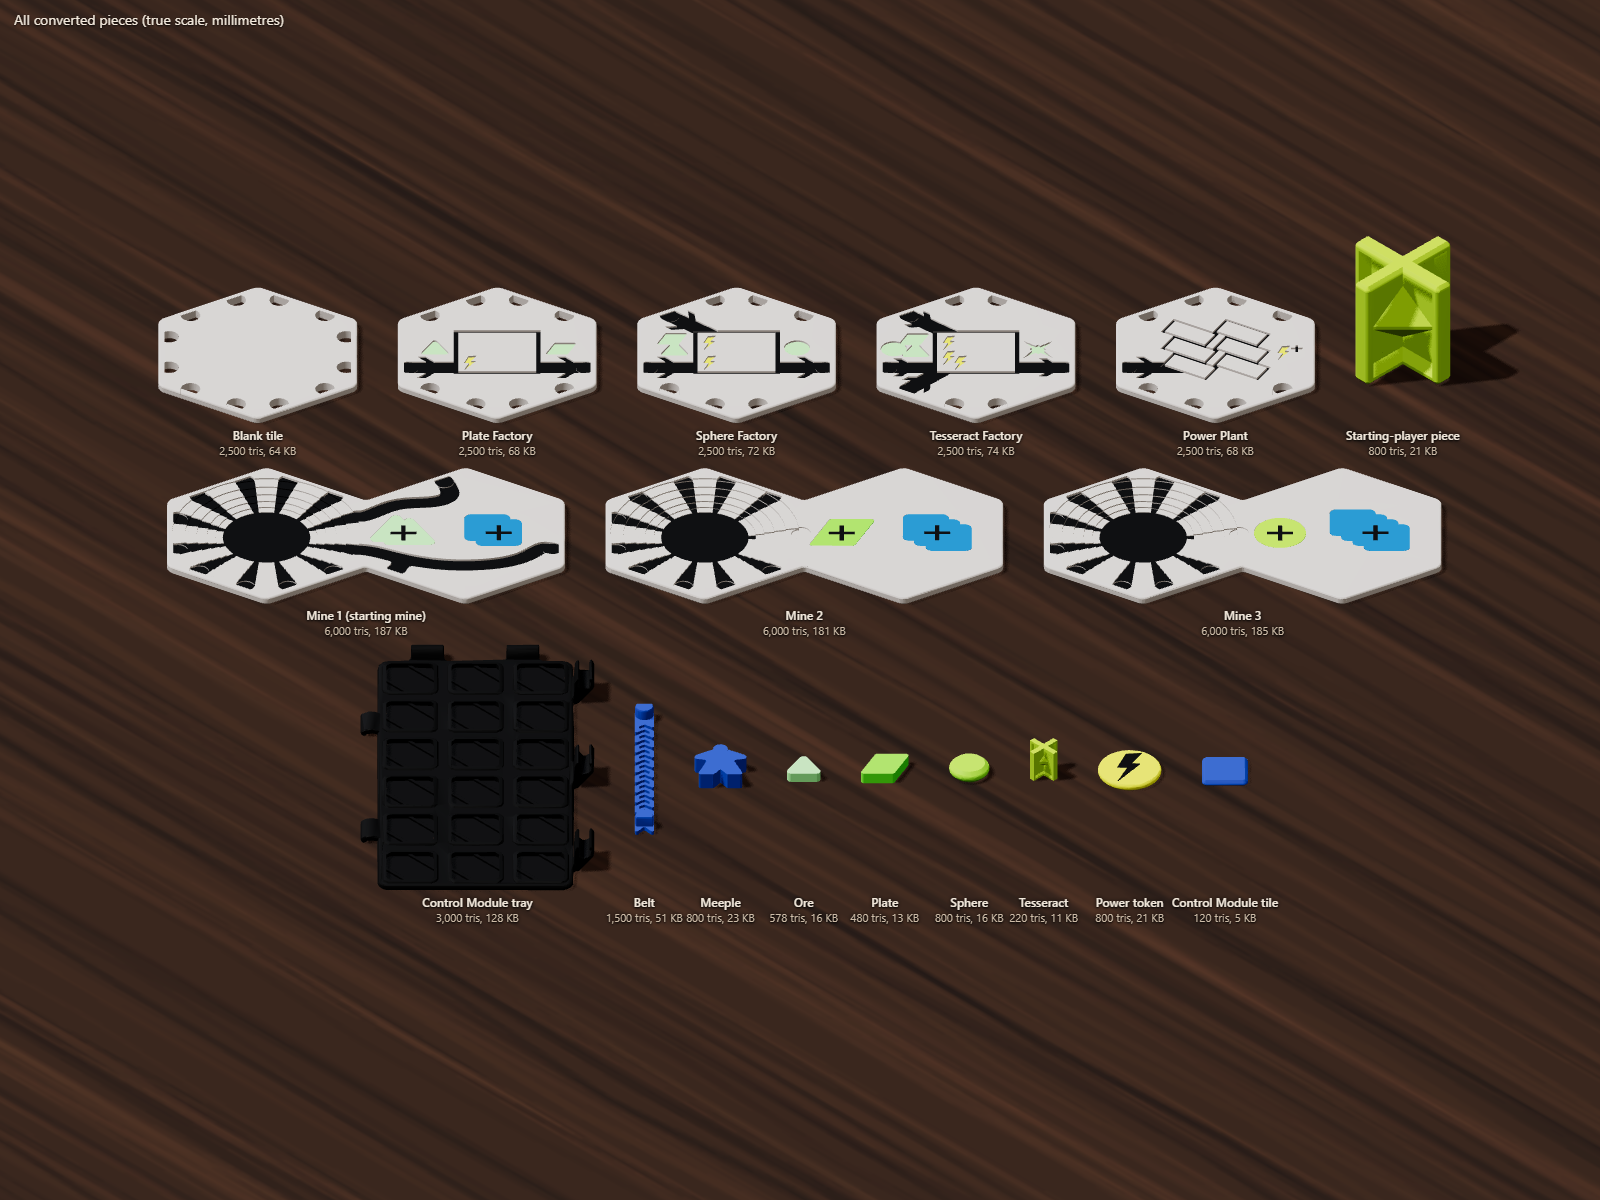
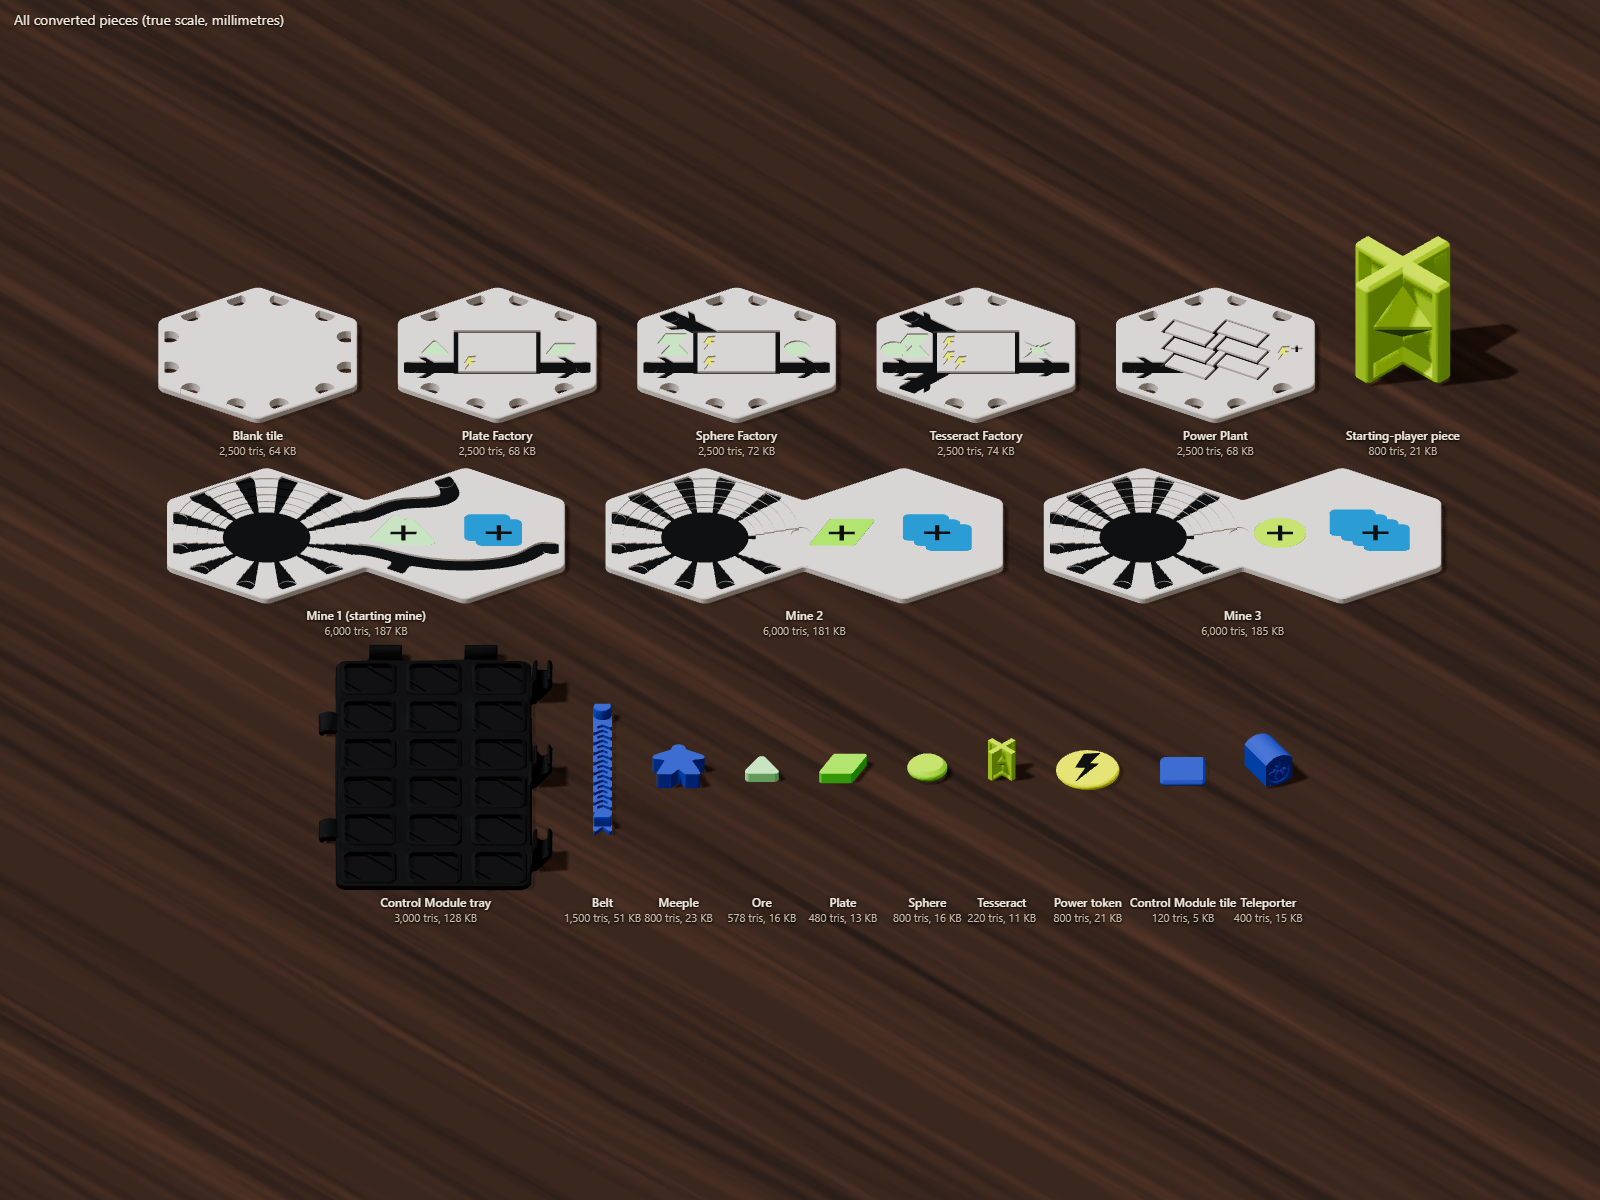
Gallery: turn the teleporter's portal towards the camera; refresh gallery images

Changed region(s): [[0.1875, 0.5242, 0.8125, 0.7708]]

diff --git a/tools/gallery/gallery.js b/tools/gallery/gallery.js
@@ -10,6 +10,8 @@ const params = new URLSearchParams(location.search);
 const view = params.get('view') ?? 'all';
 const topDown = params.get('top') === '1';
 const PLAYER_BLUE = 0x2f5fd0;
+/** Extra turn (radians) for pieces whose interesting face would otherwise point away from the camera. */
+const TURN = { teleporter: -Math.PI / 3 };
 
 const VIEWS = {
   all: {
@@ -146,6 +148,8 @@ for (const row of rowInfo) {
     const cx = x + m.bbox.size[0] / 2 - (m.bbox.min[0] + m.bbox.max[0]) / 2;
     const cz = z + row.depth / 2 - (m.bbox.min[2] + m.bbox.max[2]) / 2;
     obj.position.set(cx, 0, cz);
+    // The teleporter's portal is on its +X end; turn it towards the isometric camera so it shows.
+    if (!topDown && TURN[m.name]) obj.rotation.y = TURN[m.name];
     layout.add(obj);
     placed.push({ m, local: new THREE.Vector3(cx + (m.bbox.min[0] + m.bbox.max[0]) / 2, 0, z + row.depth + 2) });
     x += m.bbox.size[0] + gap;

diff --git a/docs/models/README.md b/docs/models/README.md
@@ -42,7 +42,7 @@ To see the result: `npx vite`, then open `/tools/gallery/index.html` (views: `?v
 - **One mesh primitive per colour**, each with a named material. Normals are split at edges sharper than 35°, so flat faces and engraved edges stay crisp.
 - **Belt:** the file has it as printed: a flat chain 1.5 mm thick along Z (arrowhead at −Z, notched tail at +Z), with a D-shaped peg 3.8 mm tall standing *up* from each end (peg centres at z ≈ −31.9 and +31.7). On the table the game turns it over (a rotation about its length, not a mirror), so the pegs point down into the D-shaped holes of the tile it lies on and the chain face is up. Each end (peg and tab) stays rigid with its peg centred on the hole; only the chain between the pegs bends along the curve. The tabs are drawn reaching 1.6 mm past the tile edge (the print reaches about 0.5 mm) so belts meeting at a shared edge overlap and read as one chain (`scene.ts` `bendBeltItems`, `layout.ts` `BELT_SPILL`).
 - **`player` material:** belts, meeple, Control Module tile and teleporter. The game tints it with the owner's colour; the file holds a neutral grey placeholder.
-- **Teleporter:** an arched block lying along X, with the round swirl-shaped portal recessed into its +X end and a 0.7 mm foot (11.7 × 6.4 mm) under the portal end, kept as printed. The table draws it at 0.75 scale beside the buffer's material, portal facing the tile edge (`layout.ts` `teleporterPlacement`).
+- **Teleporter:** an arched block lying along X, with the round swirl-shaped portal recessed into its +X end and a 0.7 mm foot (11.7 × 6.4 mm) under the portal end, kept as printed. The table draws it at 0.75 scale beside the buffer's material, portal facing the tile edge (`layout.ts` `teleporterPlacement`). The gallery's isometric views turn it 60° so the portal faces their camera.
 - No compression extensions are used, so `GLTFLoader` loads the files with no extra decoders.
 
 ## Models
